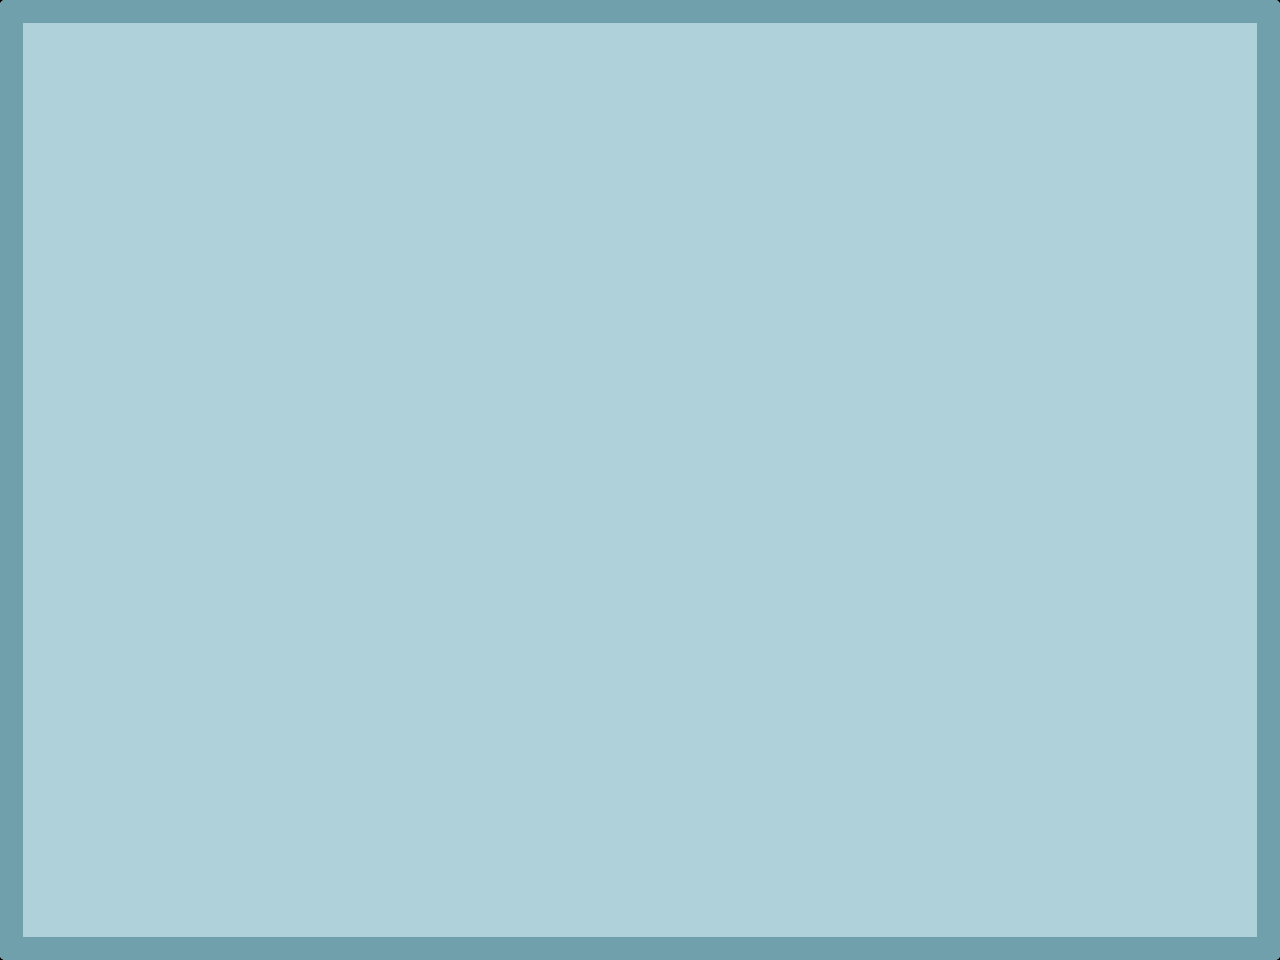
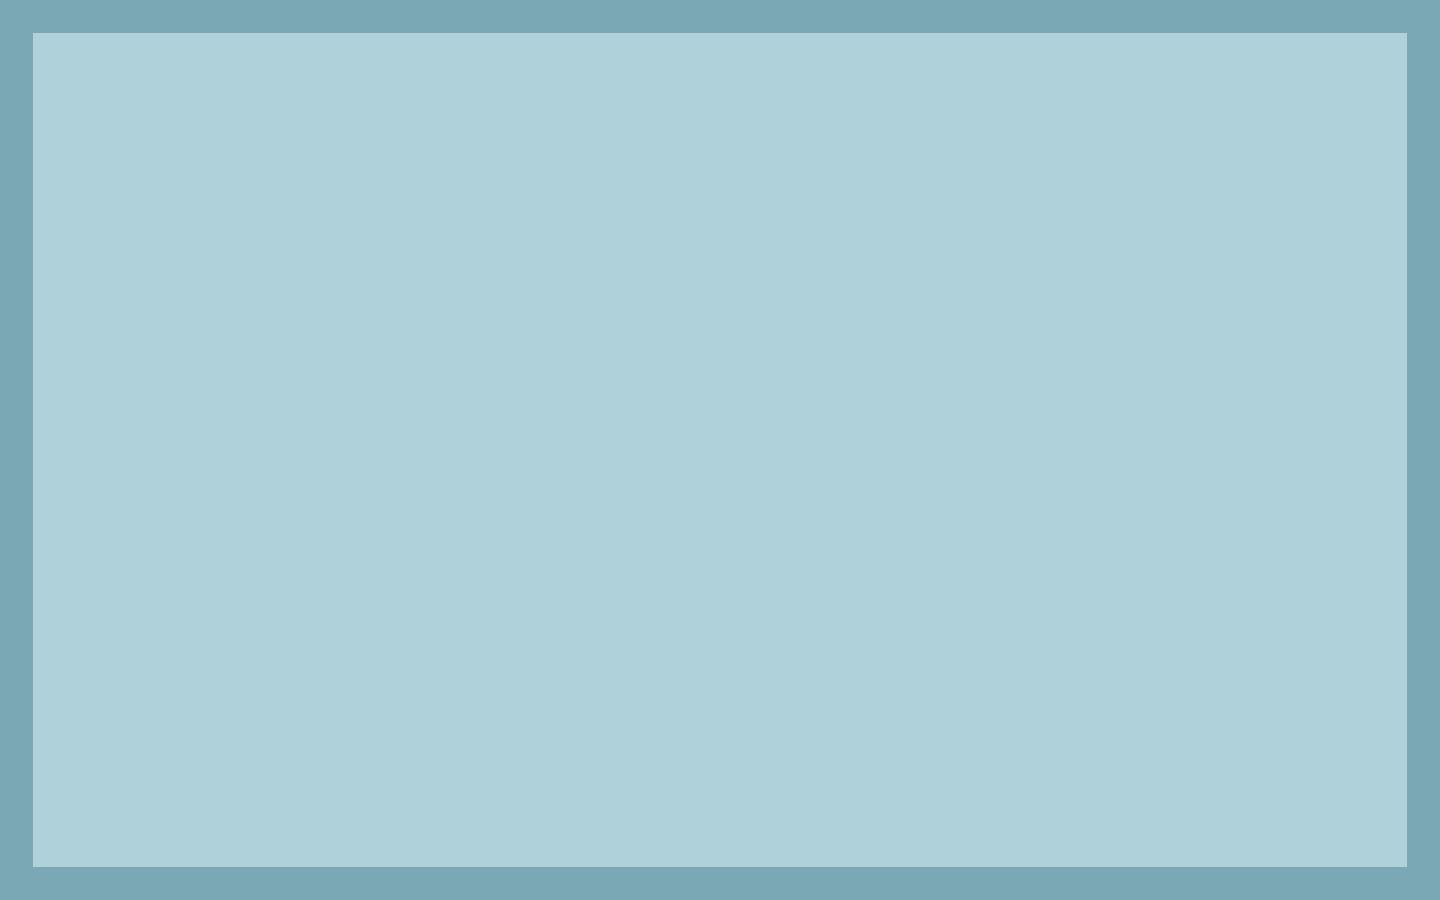
mel
resize

Changed region(s): [[0.0, 0.0, 1.0, 0.9956]]

diff --git a/core/src/main/java/pantallas/PantallaJuego.java b/core/src/main/java/pantallas/PantallaJuego.java
@@ -17,31 +17,43 @@ import utiles.Render;
 
 public class PantallaJuego implements Screen {
 
+	// ELEMENTOS
 	private Serpiente serpiente;
-	private Entradas entrada = new Entradas();
 	private Grilla grilla;
 	private Manzana manzana;
-	private Random random;
 
-	private int tamanio = 20;
-	private float posX = 0, posY = 0;
+	// ENTRADAS
+	private Entradas entrada = new Entradas();
 	private float tiempo = 0;
-	 
 	private Direcciones direccionActual = Direcciones.NINGUNA;
 
+	// LOGICA
+	private Random random;
+
+	// DISEÑO Y CONFIGURACION
 	private Imagen fondo;
+	private int tamanioElementos = 30;
+	private float posElementosX = 0, posElementosY = 0;
 
 	@Override
 	public void show() {
-		posX = (Config.ANCHO / 2f) - (tamanio / 2f);
-		posY = (Config.ALTO / 2f) - (tamanio / 2f);
+		// AREA JUGABLE
 
-		grilla = new Grilla(tamanio);
-		serpiente = new Serpiente(posX, posY, tamanio, tamanio);
-		random = new Random();
-		manzana = new Manzana(posX + 40, posY + 40, tamanio, tamanio);
+		// INICIALIZACION
 		fondo = new Imagen(Recursos.FONDO_JUEGO);
-		
+		grilla = new Grilla(tamanioElementos);
+
+		int celdasCentroX = (grilla.getAnchoJuego() / tamanioElementos) / 2;
+		int celdasCentroY = (grilla.getAltoJuego() / tamanioElementos) / 2;
+
+		// Posición inicial en píxeles (centro del área jugable)
+		posElementosX = grilla.getMargen() + (celdasCentroX * tamanioElementos);
+		posElementosY = grilla.getMargen() + (celdasCentroY * tamanioElementos);
+
+		serpiente = new Serpiente(posElementosX, posElementosY, tamanioElementos, tamanioElementos);
+		manzana = new Manzana(posElementosX + (tamanioElementos * 4), posElementosY, tamanioElementos,tamanioElementos);
+		random = new Random();
+
 		Gdx.input.setInputProcessor(entrada);
 	}
 
@@ -52,21 +64,21 @@ public class PantallaJuego implements Screen {
 		fondo.dibujar();
 		grilla.dibujarFondoGrilla();
 		Render.batch.end();
-		
+
 		Render.shaper.begin(ShapeType.Line);
 		grilla.dibujarGrilla();
 		Render.shaper.end();
-		
+
 		procesarEntradas(delta);
 		if (colisionConManzana()) {
 			serpiente.crecer();
 			moverManzanaAleatoria();
 		}
-		
+
 		Render.shaper.begin(ShapeType.Filled);
 		if (serpiente.colisionSerpiente() || colisionBordes()) {
 			Render.app.setScreen(new GameOver());
-		}else {
+		} else {
 			serpiente.dibujar();
 		}
 		manzana.dibujar();
@@ -94,19 +106,19 @@ public class PantallaJuego implements Screen {
 
 			switch (direccionActual) {
 			case ARRIBA:
-				posY += serpiente.getAlto();
+				posElementosY += serpiente.getAlto();
 				break;
 
 			case ABAJO:
-				posY -= serpiente.getAlto();
+				posElementosY -= serpiente.getAlto();
 				break;
 
 			case DERECHA:
-				posX += serpiente.getAncho();
+				posElementosX += serpiente.getAncho();
 				break;
 
 			case IZQUIERDA:
-				posX -= serpiente.getAncho();
+				posElementosX -= serpiente.getAncho();
 				break;
 
 			case NINGUNA:
@@ -116,7 +128,7 @@ public class PantallaJuego implements Screen {
 				break;
 
 			}
-			serpiente.mover(posX, posY);
+			serpiente.mover(posElementosX, posElementosY);
 		}
 	}
 
@@ -125,19 +137,11 @@ public class PantallaJuego implements Screen {
 	}
 
 	private void moverManzanaAleatoria() {
-		int margen = grilla.getMargen();
+		int celdaX = random.nextInt(grilla.getCeldasX());
+		int celdaY = random.nextInt(grilla.getCeldasY());
 
-		int areaJugableAncho = Config.ANCHO - (2 * margen);
-		int areaJugableAlto = Config.ALTO - (2 * margen);
-
-		int celdasX = areaJugableAncho / tamanio;
-		int celdasY = areaJugableAlto / tamanio;
-
-		int celdaX = random.nextInt(celdasX);
-		int celdaY = random.nextInt(celdasY);
-
-		float nuevaX = margen + (celdaX * tamanio);
-		float nuevaY = margen + (celdaY * tamanio);
+		float nuevaX = grilla.getMargen() + (celdaX * tamanioElementos);
+		float nuevaY = grilla.getMargen() + (celdaY * tamanioElementos);
 
 		manzana.setPosX(nuevaX);
 		manzana.setPosY(nuevaY);
@@ -146,16 +150,16 @@ public class PantallaJuego implements Screen {
 	private boolean colisionBordes() {
 		int margen = grilla.getMargen();
 		float serpienteX = serpiente.getPosX(), serpienteY = serpiente.getPosY();
-		boolean colision = false; 
-		
-		if(serpienteX < margen || serpienteX >= Config.ANCHO - margen || serpienteY < margen || serpienteY >= Config.ALTO - margen) {
-			colision = true; 
+		boolean colision = false;
+
+		if (serpienteX < margen || serpienteX >= Config.ANCHO - margen || serpienteY < margen
+				|| serpienteY >= Config.ALTO - margen) {
+			colision = true;
 		}
-		
+
 		return colision;
 	}
-	
-	
+
 	@Override
 	public void resize(int width, int height) {
 	}

diff --git a/core/src/main/java/pantallas/PantallaMenu.java b/core/src/main/java/pantallas/PantallaMenu.java
@@ -27,21 +27,24 @@ public class PantallaMenu implements Screen {
 	private int opc = 1;
 	private float tiempo = 0;
 
+	private int tamanioSubTexto = 50;
+	private int tamanioTexto = 120;
+
 	@Override
 	public void show() {
 		menu = new Imagen(Recursos.FONDO_MENU);
 		serpiente = new Imagen(Recursos.ICONO);
-		serpiente.setParametros(600, 150, 130, 130);
+		serpiente.setParametros(720, 140, 130, 130);
 
 		Gdx.input.setInputProcessor(entrada);
 
 		musica = Gdx.audio.newMusic(Gdx.files.internal("sonidos/musica.mp3"));
 		musica.play();
 
-		titulo = new Texto(Recursos.FUENTE, 120, Color.WHITE, Color.TEAL, -3, 3, false);
-		subtitulo1 = new Texto(Recursos.FUENTE, 50, Color.WHITE, Color.BLACK, -4, 4, true);
-		subtitulo2 = new Texto(Recursos.FUENTE, 50, Color.WHITE, Color.BLACK, -4, 4, true);
-		opcionElegida = new Texto(Recursos.FUENTE, 50, Color.SKY, Color.BLACK, -4, 4, true);
+		titulo = new Texto(Recursos.FUENTE, tamanioTexto, Color.WHITE, Color.TEAL, -3, 3, false);
+		subtitulo1 = new Texto(Recursos.FUENTE, tamanioSubTexto, Color.WHITE, Color.BLACK, -4, 4, true);
+		subtitulo2 = new Texto(Recursos.FUENTE, tamanioSubTexto, Color.WHITE, Color.BLACK, -4, 4, true);
+		opcionElegida = new Texto(Recursos.FUENTE, tamanioSubTexto, Color.SKY, Color.BLACK, -4, 4, true);
 	}
 
 	@Override
@@ -54,15 +57,15 @@ public class PantallaMenu implements Screen {
 		menu.dibujar();
 		serpiente.dibujar();
 		
-		titulo.dibujarTexto("Snake Infinite", 245, 780);
-		subtitulo1.dibujarTexto("   Un Jugador", 468, 520);
-		subtitulo2.dibujarTexto("   Multijugador", 448, 410);
-		
+		titulo.dibujarTexto("Snake Infinite", 330, 750);
+		subtitulo1.dibujarTexto("   Un Jugador", 580, 530);
+		subtitulo2.dibujarTexto("   Multijugador", 565, 400);
+
 		if (opc == 1) {
-			opcionElegida.dibujarTexto("> ", 458, 520);
+			opcionElegida.dibujarTexto("> ", 540, 530);
 
 		} else if (opc == 2) {
-			opcionElegida.dibujarTexto("> ", 440, 410);
+			opcionElegida.dibujarTexto("> ", 540, 400);
 		}
 		Render.batch.end();
 	}
@@ -107,6 +110,7 @@ public class PantallaMenu implements Screen {
 			subtitulo2.setColor(Color.SKY);
 		}
 	}
+
 	@Override
 	public void resize(int width, int height) {
 	}

diff --git a/core/src/main/java/elementos/Grilla.java b/core/src/main/java/elementos/Grilla.java
@@ -12,19 +12,24 @@ import utiles.Render;
 
 public class Grilla {
 	private int tamanioCelda;
-	private Color color;
 	private int margen;
 	private Imagen fondo; 
+	private int anchoJuego = 0, altoJuego = 0; 
+	private int cantCeldasX = 0, cantCeldasY = 0; 
 	
 	public Grilla(int tamanioCelda) {
 		this.tamanioCelda = tamanioCelda;
-		this.color = Color.DARK_GRAY;
-		this.margen = tamanioCelda * 3; // Margen de 2 celdas
+		margen = tamanioCelda * 2;
 		
 		fondo = new Imagen(Recursos.FONDO_GRILLA);
 		
-		int anchoJuego = Config.ANCHO - (margen * 2);
-		int altoJuego = Config.ALTO - (margen * 2);
+		//AREA REAL DEL JUEGO 
+		anchoJuego = Config.ANCHO - (margen * 2);
+		altoJuego = Config.ALTO - (margen * 2);
+		
+		//CANTIDAD DE CELDAS DE LA GRILLA 
+		cantCeldasX = anchoJuego / tamanioCelda; 
+		cantCeldasY = altoJuego / tamanioCelda; 
 		
 		fondo.setParametros(margen, margen, anchoJuego, altoJuego);
 	}
@@ -34,7 +39,7 @@ public class Grilla {
 	}
 	
 	public void dibujarGrilla() {
-		Render.shaper.setColor(color);
+		Render.shaper.setColor(Color.DARK_GRAY);
 		// VERTICAL 
 		for (int x = margen; x <= Config.ANCHO - margen; x += tamanioCelda) {
 			Render.shaper.line(x, margen, x, Config.ALTO - margen);
@@ -50,16 +55,28 @@ public class Grilla {
 		return margen;
 	}
 
-	public void setMargen(int margen) {
-		this.margen = margen;
-	}
-
 	public int getTamanioCelda() {
 		return tamanioCelda;
 	}
 	
 	public void setTamanioCelda(int tamanioCelda) {
 		this.tamanioCelda = tamanioCelda;
+	}
+	
+	public int getAnchoJuego() {
+		return anchoJuego; 
+	}
+	
+	public int getAltoJuego() {
+		return altoJuego; 
+	}
+	
+	public int getCeldasX() {
+		return cantCeldasX; 
+	}
+	
+	public int getCeldasY() {
+		return cantCeldasY; 
 	}
 	
 	public void dispose() {

diff --git a/core/src/main/java/elementos/Texto.java b/core/src/main/java/elementos/Texto.java
@@ -11,17 +11,17 @@ import utiles.Render;
 public class Texto {
 	private BitmapFont fuente;
 
-	public Texto(String rutaFuente, int dimension, Color colorLetra, Color colorSombra, int sombraX, int sombraY,
+	public Texto(String rutaFuente, float dimension, Color colorLetra, Color colorSombra, int sombraX, int sombraY,
 			boolean borde) {
 		generarTexto(rutaFuente, dimension, colorLetra, colorSombra, sombraX, sombraY, borde);
 	}
 	
-	private void generarTexto(String rutaFuente, int dimension, Color colorLetra, Color colorSombra, int sombraX, int sombraY,
+	private void generarTexto(String rutaFuente, float dimension, Color colorLetra, Color colorSombra, int sombraX, int sombraY,
 			boolean borde) {
 		FreeTypeFontGenerator generador = new FreeTypeFontGenerator(Gdx.files.internal(rutaFuente));
 		FreeTypeFontParameter parametros = new FreeTypeFontGenerator.FreeTypeFontParameter();
 
-		parametros.size = dimension;
+		parametros.size = (int) dimension;
 		parametros.color = colorLetra;
 		parametros.shadowColor = colorSombra;
 		parametros.shadowOffsetX = sombraX;

diff --git a/core/src/main/java/utiles/Config.java b/core/src/main/java/utiles/Config.java
@@ -2,5 +2,7 @@ package utiles;
 
 public abstract class Config {
 
-	public static final int ANCHO = 1260, ALTO = 940;
+	public static final int ANCHO = 1440, ALTO = 900;
+	public static final float PANTALLA_X = (float) ANCHO / 2;
+	public static final float PANTALLA_Y = (float) ALTO / 2;
 }

diff --git a/core/src/main/java/elementos/Manzana.java b/core/src/main/java/elementos/Manzana.java
@@ -50,6 +50,6 @@ public class Manzana {
 
 	public void dibujar() {
 		Render.shaper.setColor(Color.RED);
-		Render.shaper.rect(posX, posY, ancho - 1, alto - 1);
+		Render.shaper.rect(posX, posY, ancho-1, alto-1);
 	}
 }
